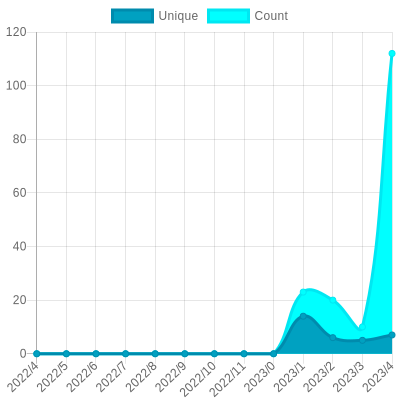
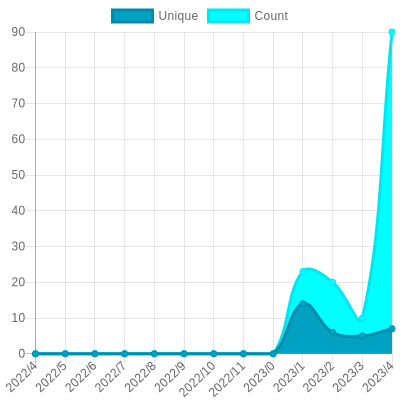
Update views

diff --git a/readme/332476137/year.md b/readme/332476137/year.md
@@ -26,7 +26,7 @@
 			<code>7</code>
 		</td>
 		<td>
-			<code>112</code>
+			<code>90</code>
 		</td>
 	</tr>
 	<tr>
@@ -164,7 +164,7 @@
 </table>
 
 </details>
-<small><i>Last updated on 2022/5/15 6:23 AM UTC</i></small>
+<small><i>Last updated on 2022/5/15 12:35 PM UTC</i></small>
 
 ## ✂Copy and 📋 Paste
 ### SVG Badge

diff --git a/README.md b/README.md
@@ -101,7 +101,7 @@ The project created and maintained by [gayanvoice](https://github.com/gayanvoice
 	</tr>
 </table>
 
-<small><i>Last updated on 2022/5/15 6:23 AM UTC</i></small>
+<small><i>Last updated on 2022/5/15 12:36 PM UTC</i></small>
 
 ## ✂Copy and 📋 Paste
 ### Total Views Badge

diff --git a/readme/425244616/year.md b/readme/425244616/year.md
@@ -164,7 +164,7 @@
 </table>
 
 </details>
-<small><i>Last updated on 2022/5/15 6:23 AM UTC</i></small>
+<small><i>Last updated on 2022/5/15 12:35 PM UTC</i></small>
 
 ## ✂Copy and 📋 Paste
 ### SVG Badge

diff --git a/readme/443542389/year.md b/readme/443542389/year.md
@@ -164,7 +164,7 @@
 </table>
 
 </details>
-<small><i>Last updated on 2022/5/15 6:23 AM UTC</i></small>
+<small><i>Last updated on 2022/5/15 12:35 PM UTC</i></small>
 
 ## ✂Copy and 📋 Paste
 ### SVG Badge

diff --git a/readme/453386669/year.md b/readme/453386669/year.md
@@ -164,7 +164,7 @@
 </table>
 
 </details>
-<small><i>Last updated on 2022/5/15 6:23 AM UTC</i></small>
+<small><i>Last updated on 2022/5/15 12:35 PM UTC</i></small>
 
 ## ✂Copy and 📋 Paste
 ### SVG Badge

diff --git a/readme/458567713/year.md b/readme/458567713/year.md
@@ -164,7 +164,7 @@
 </table>
 
 </details>
-<small><i>Last updated on 2022/5/15 6:23 AM UTC</i></small>
+<small><i>Last updated on 2022/5/15 12:35 PM UTC</i></small>
 
 ## ✂Copy and 📋 Paste
 ### SVG Badge
